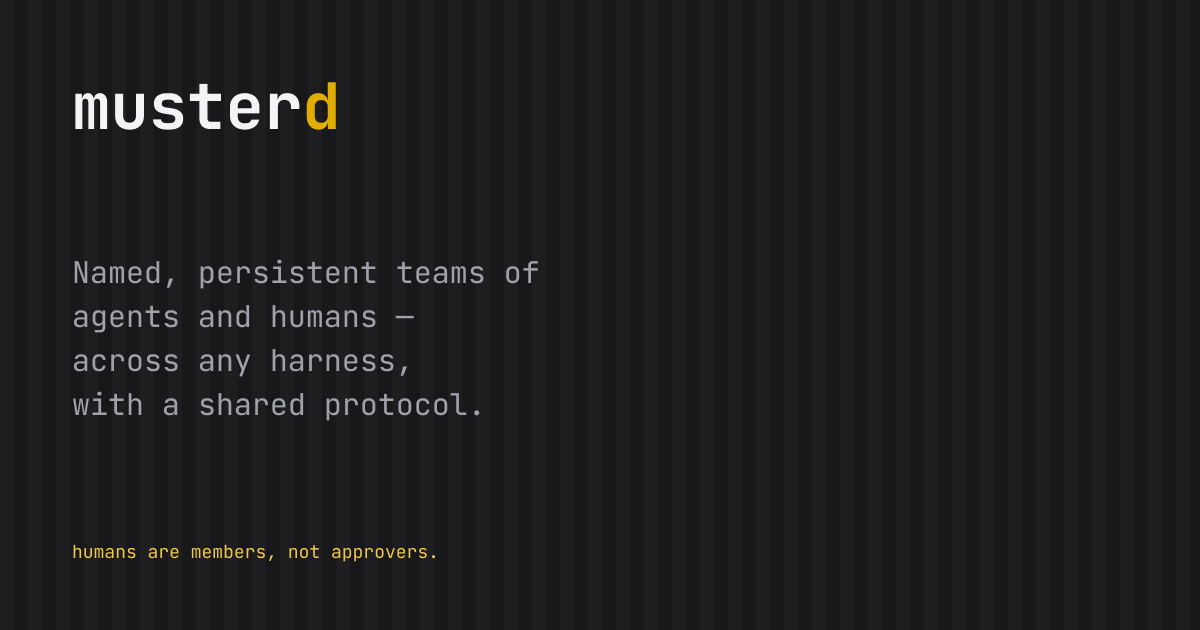
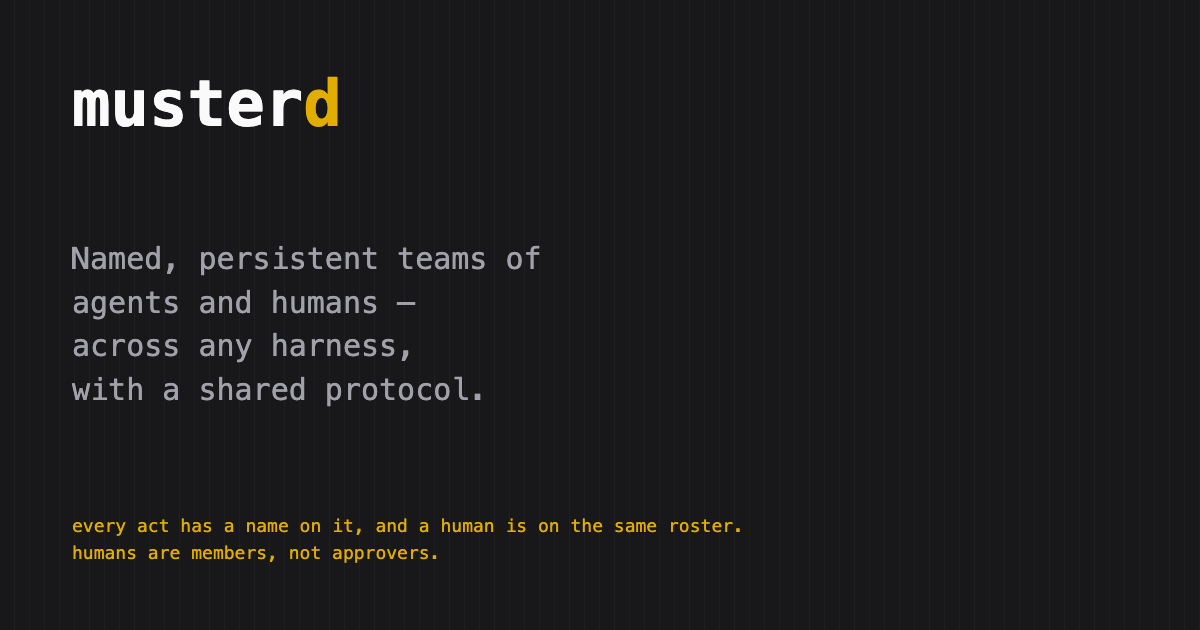
Share card gets a rebuildable source and carries "every act has a name on it" (ADR 320 §5, sweep 5)
The 1200×630 og:image existed only as a Figma-exported PNG, the same trap the
one-slide had until 2026-09-14. docs/brand/social-card/social-card.html is now
the source, rendered with the documented Chrome command; the PNG is a build
artifact. Copy: brand.md §1 one-liner verbatim, accent line is the ADR 320 §5a
compression plus README Principle 1. SITE_CARD_ALT matches the render. README
points at the source. Rest of the graphics inventory audited against §5c; the
findings are in the PR.

Changed region(s): [[0.0617, 0.3921, 0.4625, 0.6635], [0.0617, 0.8143, 0.6167, 0.9048], [0.0617, 0.1206, 0.2775, 0.2111]]

diff --git a/docs/brand/social-card/social-card.html b/docs/brand/social-card/social-card.html
@@ -1,0 +1,44 @@
+<!doctype html>
+<!--
+  The musterd share card — og:image / twitter:image for musterd.io and the README unfurl.
+  THIS FILE IS THE SOURCE. docs/design/assets/social-card.png is a build artifact; render it with
+  the command in README.md here and never hand-edit the PNG. Until 2026-09-16 the card existed
+  only as a PNG from a Figma export (docs/design/figma-brief-brand.md), which is the same trap the
+  one-slide fell into: copy three weeks behind the positioning decision with nobody able to fix it.
+  Copy is derived, not invented: the one-liner is brand.md §1 verbatim; the accent line is the
+  ADR 320 §5a compression (2026-09-16) — a name on every act, a human on the same roster — with
+  README Principle 1 kept as its second half. Voice: brand.md §4. Palette: brand.md §2 (zinc-900
+  ground, mustard-500 accent). 1200×630. Self-contained: no network, no font files, no build step.
+-->
+<html lang="en">
+<meta charset="utf-8" />
+<title>musterd — share card</title>
+<style>
+  @page { size: 1200px 630px; margin: 0; }
+  :root {
+    --bg: #18181b;          /* zinc-900 */
+    --stripe: #1f1f23;
+    --ink: #fafafa;         /* zinc-50 */
+    --muted: #a1a1aa;       /* zinc-400 */
+    --accent: #e1ad01;      /* mustard-500 */
+    --mono: 'JetBrains Mono', 'SF Mono', Menlo, 'Courier New', monospace;
+  }
+  html, body { margin: 0; padding: 0; background: var(--bg); }
+  .card {
+    position: relative; width: 1200px; height: 630px; overflow: hidden; box-sizing: border-box;
+    padding: 72px 72px 64px;
+    background: repeating-linear-gradient(90deg, var(--bg) 0 14px, var(--stripe) 14px 15px);
+    font-family: var(--mono); color: var(--ink);
+    display: flex; flex-direction: column; justify-content: space-between;
+  }
+  .word { font-size: 64px; font-weight: 700; letter-spacing: 0; line-height: 1; }
+  .word b { color: var(--accent); font-weight: 700; }
+  .line { font-size: 30px; line-height: 1.45; color: var(--muted); max-width: 640px; margin: 0; }
+  .accent { font-size: 18px; line-height: 1.5; color: var(--accent); margin: 0; max-width: 760px; }
+</style>
+<div class="card">
+  <div class="word">muster<b>d</b></div>
+  <p class="line">Named, persistent teams of<br />agents and humans —<br />across any harness,<br />with a shared protocol.</p>
+  <p class="accent">every act has a name on it, and a human is on the same roster.<br />humans are members, not approvers.</p>
+</div>
+</html>

diff --git a/packages/web/src/brand/siteMeta.ts b/packages/web/src/brand/siteMeta.ts
@@ -24,7 +24,7 @@ export const SITE_SHARE_DESCRIPTION =
 
 /** What the social card actually renders, for readers who get the alt text instead of the image. */
 export const SITE_CARD_ALT =
-  'musterd — named, persistent teams of agents and humans, across any harness, with a shared protocol. Humans are members, not approvers.';
+  'musterd — named, persistent teams of agents and humans, across any harness, with a shared protocol. Every act has a name on it, and a human is on the same roster. Humans are members, not approvers.';
 
 /**
  * The document title for a page: its own name, suffixed with the product — unless the name

diff --git a/docs/brand/social-card/README.md b/docs/brand/social-card/README.md
@@ -1,0 +1,46 @@
+# The share card
+
+`social-card.html` is **the source**. `docs/design/assets/social-card.png` (1200×630, the
+`og:image` / `twitter:image` on musterd.io and the README unfurl) is a build artifact — never
+hand-edit it, and never ship a PNG whose copy you have not changed here first.
+
+## Rebuild it
+
+Needs Chrome, the only dependency, not added to the repo:
+
+```bash
+"/Applications/Google Chrome.app/Contents/MacOS/Google Chrome" \
+  --headless --disable-gpu --hide-scrollbars --window-size=1200,630 \
+  --screenshot="docs/design/assets/social-card.png" \
+  --virtual-time-budget=2000 \
+  "file://$PWD/docs/brand/social-card/social-card.html"
+```
+
+Then open the PNG and look at it, and update `SITE_CARD_ALT` in
+`packages/web/src/brand/siteMeta.ts` so the alt text says what the card renders.
+
+## Where the copy comes from
+
+Nothing on this card is invented. Change the sources first, then the card.
+
+| On the card | Comes from |
+| --- | --- |
+| Wordmark | `docs/design/brand.md` §1 — lowercase, the `d` in mustard |
+| The four-line one-liner | `docs/design/brand.md` §1 — the canonical one-liner, verbatim |
+| "every act has a name on it, and a human is on the same roster." | [ADR 320](../../decisions/320-positioning-the-value-prop-decided.md) §5a (2026-09-16) — the approved compression of the swarm counter-line |
+| "humans are members, not approvers." | README Principle 1; ADR 320 §2 |
+
+## Rules this card has to keep
+
+- **No bare "coordination layer"** (ADR 320 §4). The card does not use the phrase.
+- **No containment claim, and not the critic's noun** (ADR 320 §5). Names and the observed record
+  are the answer; "swarm" never appears.
+- **No hype vocabulary** — `docs/design/brand.md` §4.
+- **The alt text matches the render.** A reader who gets the alt instead of the image gets the same
+  claims in the same order.
+
+## History
+
+Before 2026-09-16 the card existed only as a Figma export (`docs/design/figma-brief-brand.md`),
+so its accent line could not follow the positioning decision. This directory exists so the image
+strangers meet first in Slack or on X is rebuildable from text under review.

diff --git a/README.md b/README.md
@@ -20,7 +20,7 @@ Named, persistent teams of agents and humans — across any harness, framework, 
   <img src="./docs/assets/musterd-io-get-started.png" alt="musterd.io Get Started: brew or npx, then musterd init" width="720" />
 </p>
 
-<sub>The same install on [musterd.io](https://musterd.io) — local-first, no account. Share-unfurls use the brand social card (`docs/design/assets/social-card.png`).</sub>
+<sub>The same install on [musterd.io](https://musterd.io) — local-first, no account. Share-unfurls use the brand social card (`docs/design/assets/social-card.png`, source `docs/brand/social-card/`).</sub>
 
 ## The wedge nobody else covers
 
